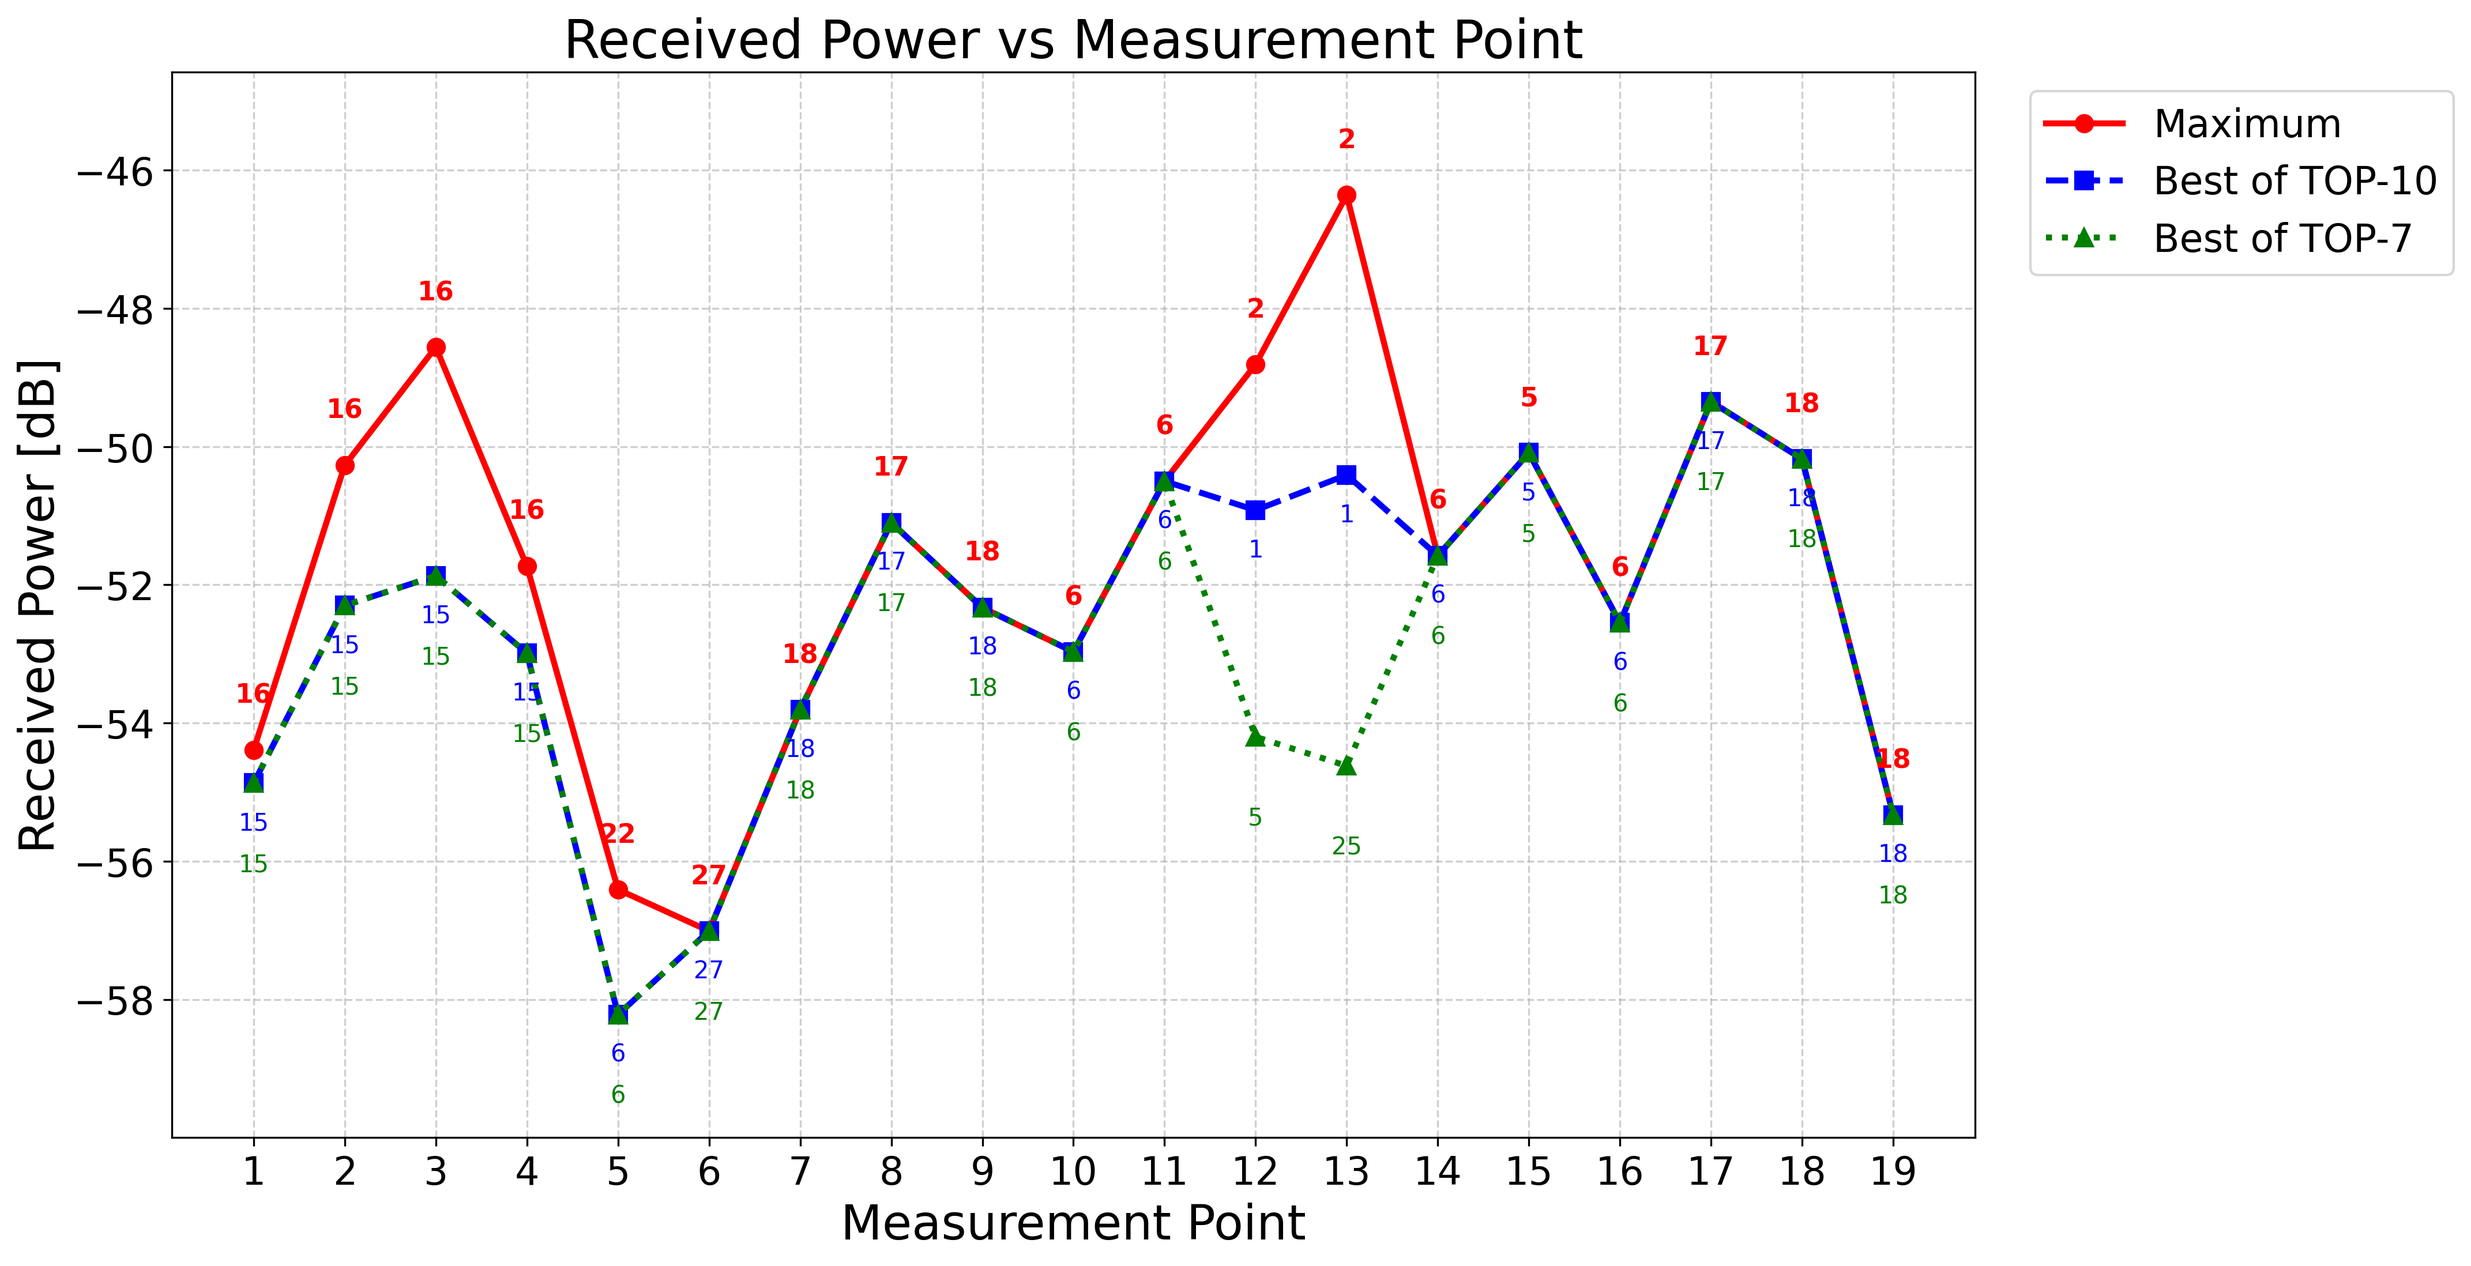
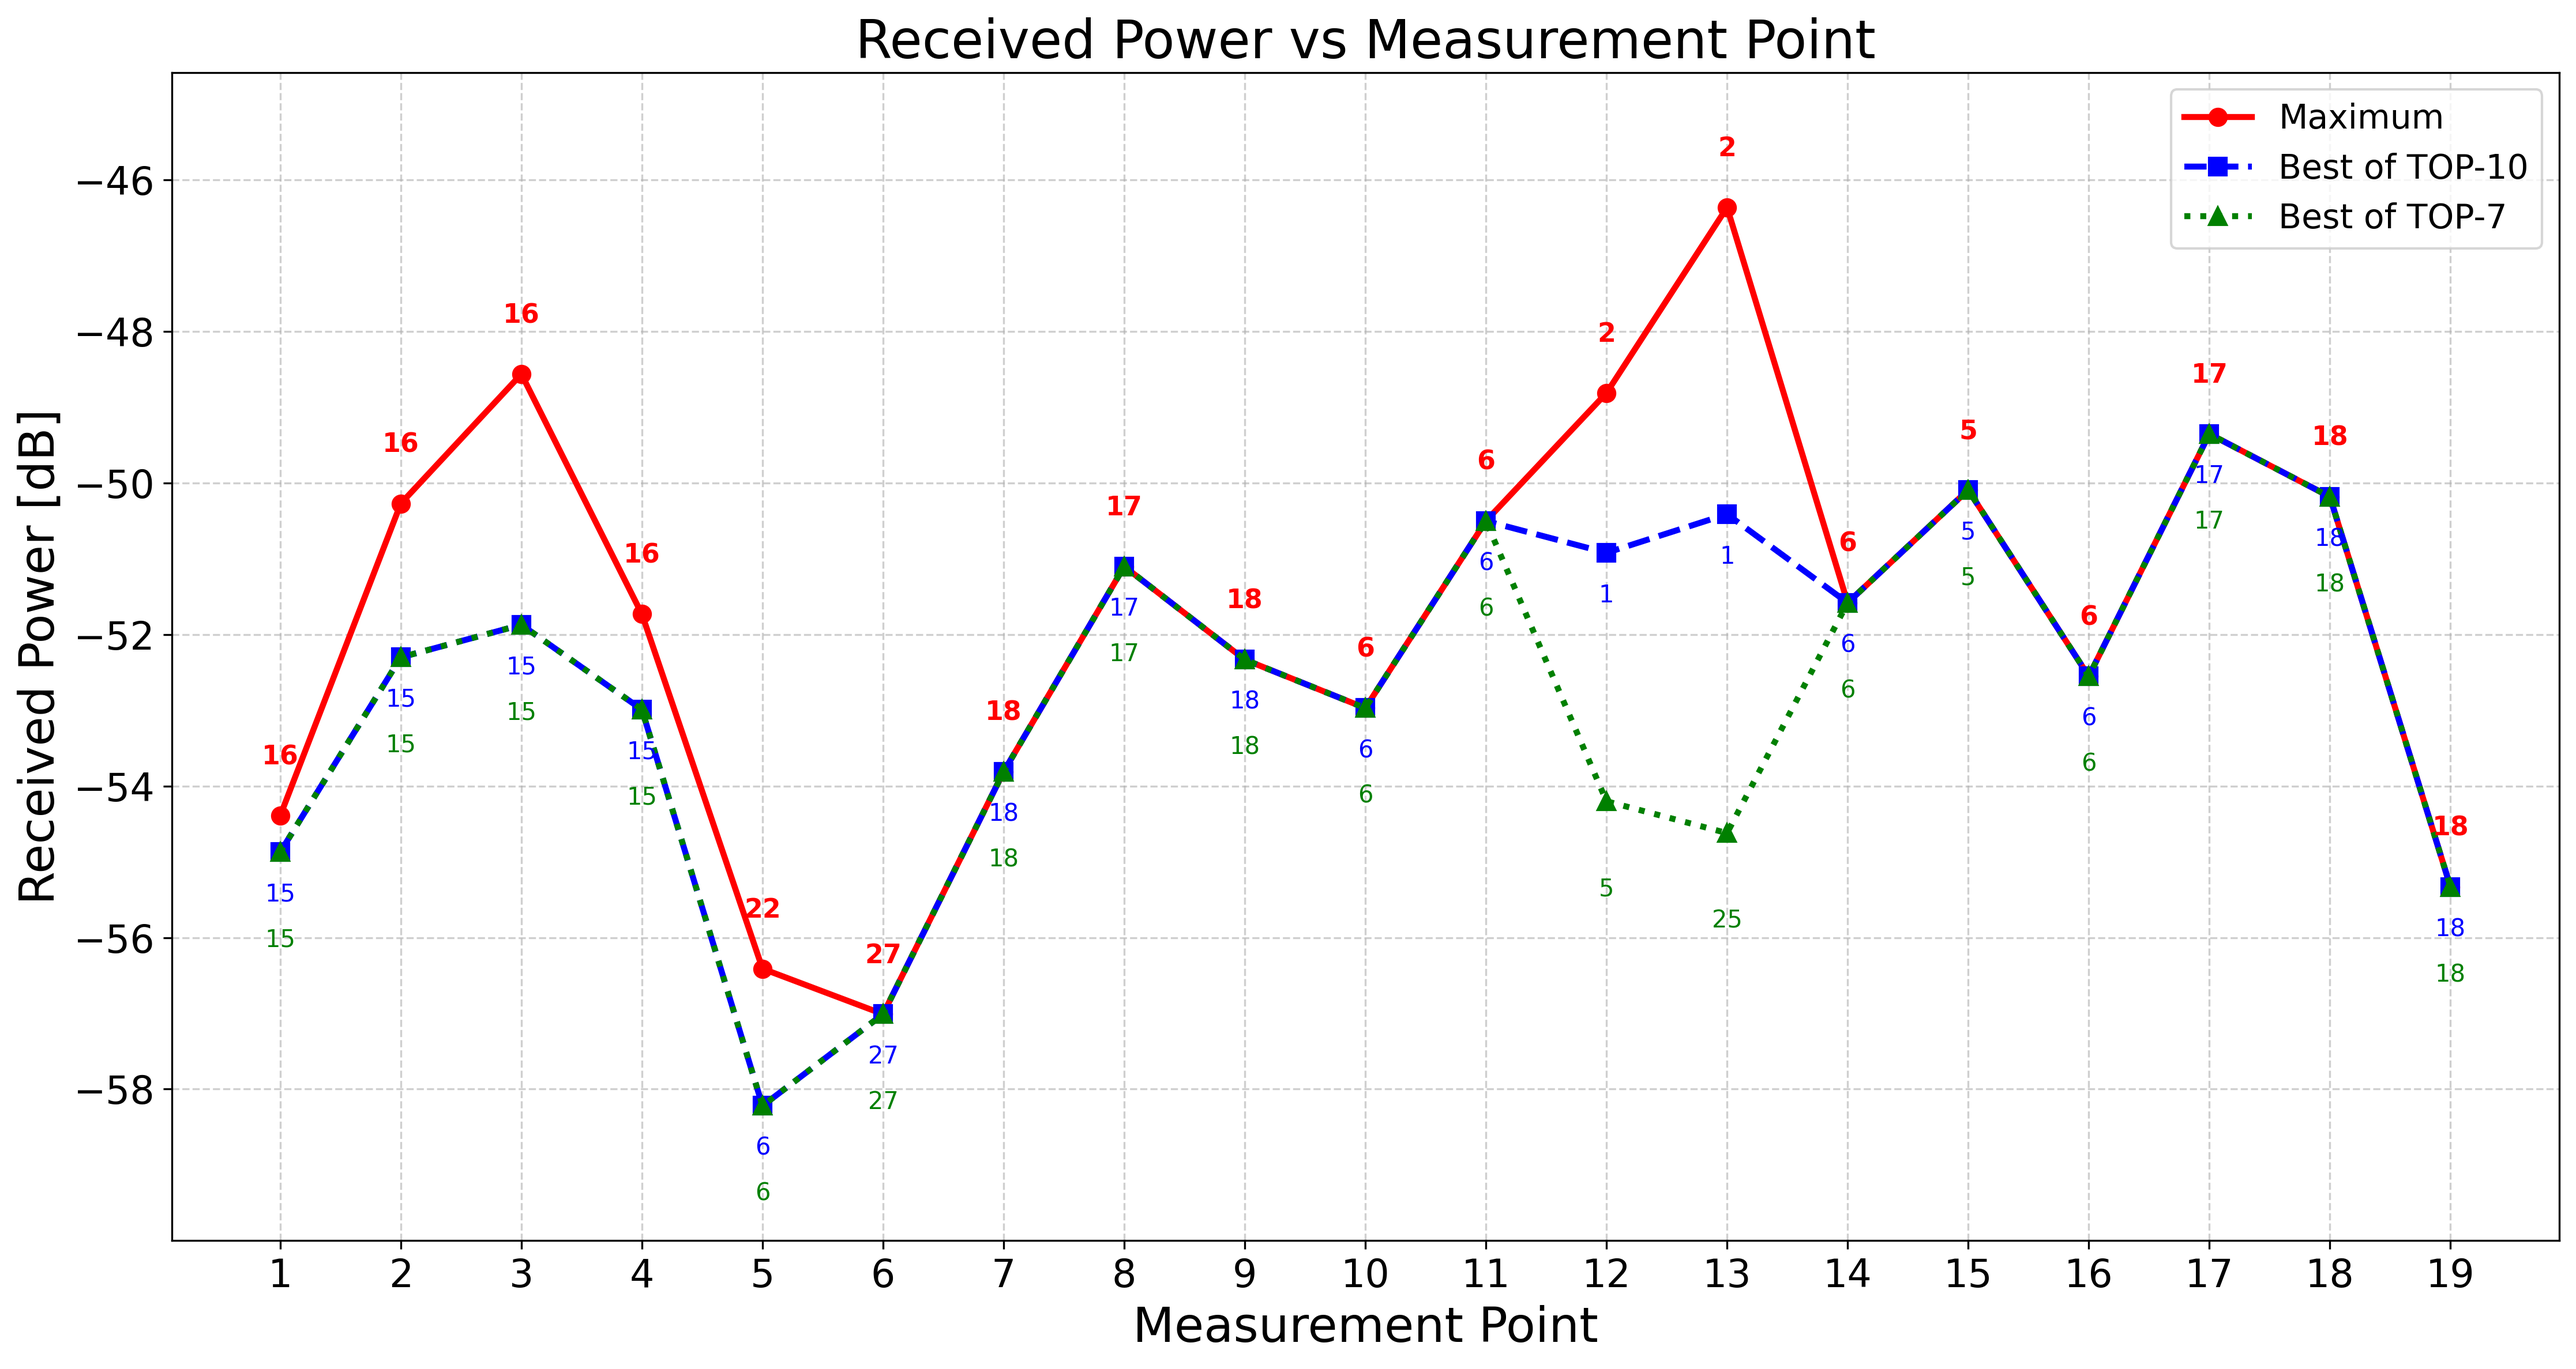
same thing as before

diff --git a/DANE_Z_POMIAROW/V2X_INFOCOM2024_KRIT2025_ESWA/wyniki_jeden_RIS/ESWA_scenario_A_results.py b/DANE_Z_POMIAROW/V2X_INFOCOM2024_KRIT2025_ESWA/wyniki_jeden_RIS/ESWA_scenario_A_results.py
@@ -170,12 +170,15 @@ def generate_plot(data, output_folder):
     plt.ylabel("Received Power [dB]", fontsize=20)
     plt.title("Received Power vs Measurement Point", fontsize=22)
 
+    # ===== limity osi Y (od -35 dB) =====
+    plt.ylim(-90, -35)
+
     plt.grid(True, linestyle="--", alpha=0.6)
 
-    # ===== legenda =====
-    plt.legend(fontsize=16, loc="upper left", bbox_to_anchor=(1.02, 1))
+    # ===== legenda wewnątrz wykresu =====
+    plt.legend(fontsize=14, loc="upper right")
 
-    plt.subplots_adjust(right=0.82)
+    plt.tight_layout()
 
     out = os.path.join(
         output_folder, "Power_vs_Point_Max_Min_Pattern10_20_BIGFONTS.png"

diff --git a/DANE_Z_POMIAROW/V2X_INFOCOM2024_KRIT2025_ESWA/wyniki_jeden_RIS/ESWA_with_5_best.py b/DANE_Z_POMIAROW/V2X_INFOCOM2024_KRIT2025_ESWA/wyniki_jeden_RIS/ESWA_with_5_best.py
@@ -211,9 +211,9 @@ plt.title(
 )
 
 plt.grid(True, linestyle="--", alpha=0.6)
-plt.legend(fontsize=16, loc="upper left", bbox_to_anchor=(1.02, 1))
+plt.legend(fontsize=14, loc="upper right")
 
-plt.subplots_adjust(right=0.82)
+plt.tight_layout()
 
 out = os.path.join(output_folder, f"Max_vs_{TOP_K_1}_vs_Top_{TOP_K_2}.png")
 plt.savefig(out, dpi=300, bbox_inches="tight")
